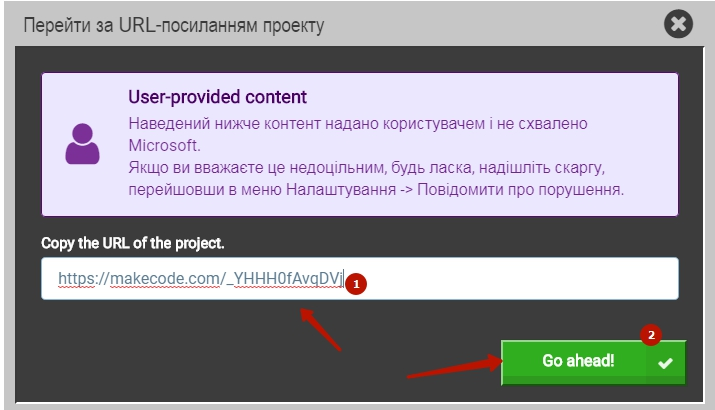
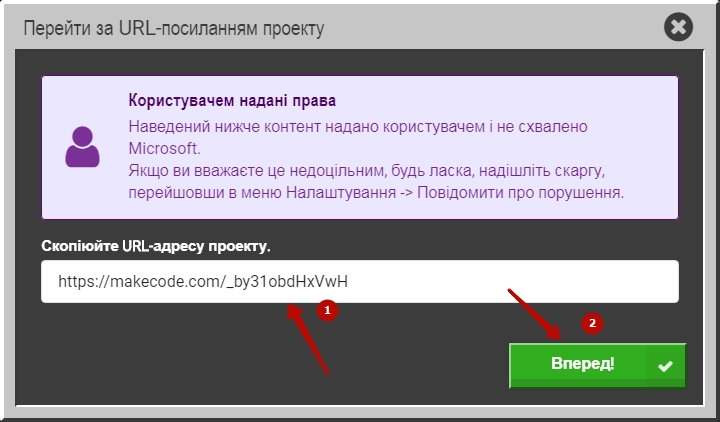
start

Changed region(s): [[0.0, 0.0, 1.0, 1.0], [0.1846, 0.2049, 0.4923, 0.2634], [0.0923, 0.2927, 0.1538, 0.4098]]

diff --git a/README.md b/README.md
@@ -41,7 +41,7 @@
 <img src = "img/step9.jpg">  
 
 6.3. Вставляем ссылка на код:  
-https://makecode.com/_YHHH0fAvqDVj
+https://makecode.com/_by31obdHxVwH
 
 
 <img src = "img/AgentStart.jpg">  

diff --git a/language/README.md b/language/README.md
@@ -41,7 +41,7 @@
 <img src = "img/step9.jpg">  
 
 6.3. Вставляємо посилання на код:
-https://makecode.com/_YHHH0fAvqDVj
+https://makecode.com/_by31obdHxVwH
 
 
 
